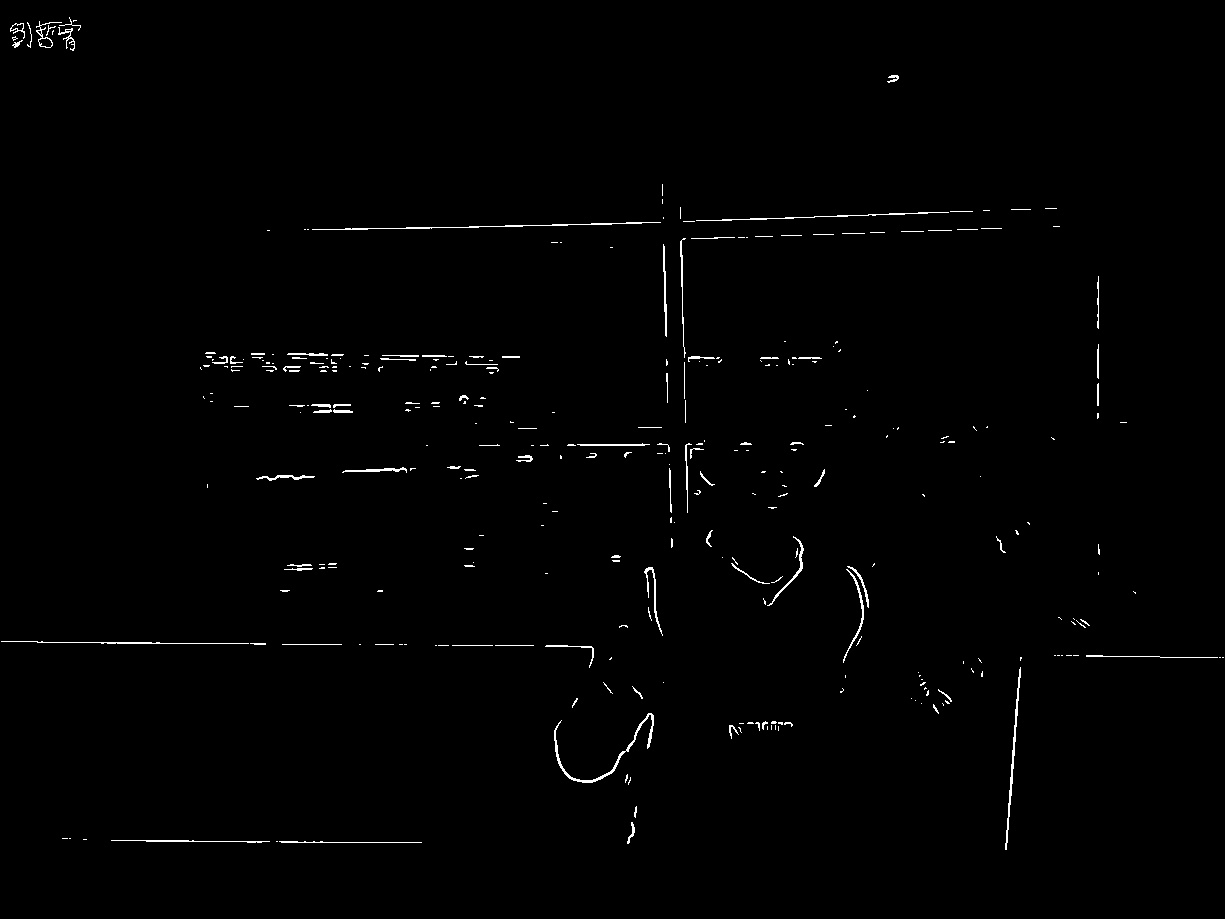
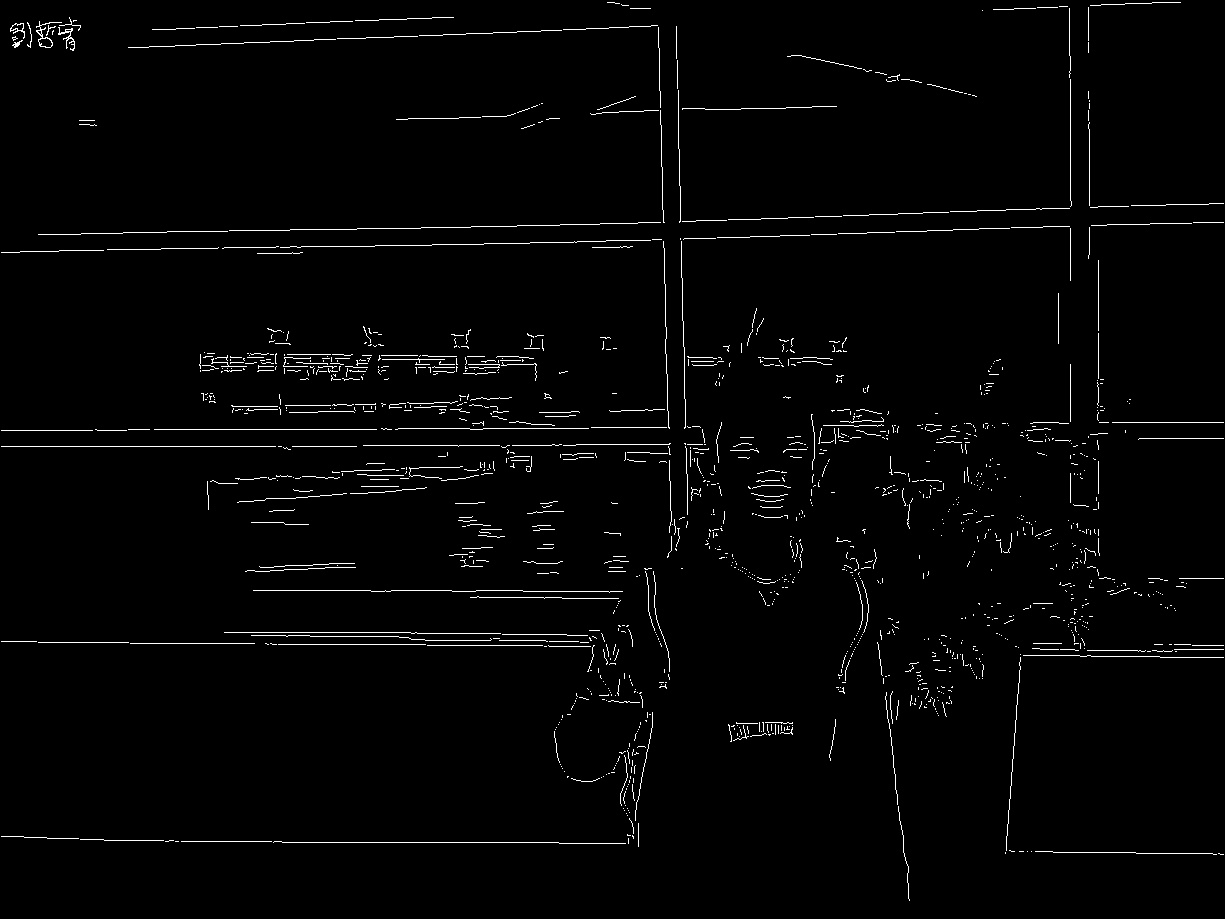
update

diff --git a/Canny.py b/Canny.py
@@ -16,14 +16,16 @@ def filter2D(image, kernel):
     return result
 
 
-def nms(dst):
+def nms(dst, angle):
     height, width = dst.shape[:2]
     result = np.zeros((height, width), dtype=np.int32)
-    angle = dst * 180. / np.pi
+    # angle = dst * 180. / np.pi
     for i in range(1, height - 1):
         for j in range(1, width - 1):
             v1 = 255
             v2 = 255
+            if angle[i, j] > 180:
+                angle[i, j] = angle[i, j] - 180
             if 67.5 > angle[i, j] >= 22.5:
                 # slash
                 v1 = dst[i + 1, j - 1]
@@ -133,7 +135,7 @@ class Canny(object):
         gradientMagnitude, gradientAngle = cv.cartToPolar(gradientX, gradientY, angleInDegrees=True)
 
         # cv.imshow("Gradient",gradientMagnitude.astype(np.uint8))
-        result = labelComponent(nms(gradientMagnitude), self.lowThreshold, self.highThreshold).astype(np.uint8)
+        result = labelComponent(nms(gradientMagnitude, gradientAngle), self.lowThreshold, self.highThreshold).astype(np.uint8)
 
         result = putSign(result)
 

diff --git a/main.py b/main.py
@@ -5,27 +5,27 @@ from matplotlib import pyplot as plt
 import Canny
 import HoughLines
 
-img = cv2.imread('street2.jpg', cv2.IMREAD_GRAYSCALE)
+img = cv2.imread('me.jpg', cv2.IMREAD_GRAYSCALE)
 # cv2.imshow('img', img)
 # canny edge detection
 canny = Canny.Canny()
 edges = canny.Canny(img)
 
 cv2.imshow('Canny', edges)
-cv2.imwrite('str2canny.jpg', edges)
+cv2.imwrite('mecanny.jpg', edges)
 cv2.waitKey(0)
 cv2.destroyAllWindows()
 
 # hough transform
-hough = HoughLines.HoughLines()
-vote = hough.vote(edges)
-
-fig = plt.figure(figsize=(10, 10))
-plt.imshow(vote, cmap='inferno')
-plt.ylabel('theta')
-plt.xlabel('rho')
-plt.margins(x=0.1)
-# plt.show()
-plt.savefig('str2vote.jpg')
+# hough = HoughLines.HoughLines()
+# vote = hough.vote(edges)
+#
+# fig = plt.figure(figsize=(10, 10))
+# plt.imshow(vote, cmap='inferno')
+# plt.ylabel('theta')
+# plt.xlabel('rho')
+# plt.margins(x=0.1)
+# # plt.show()
+# plt.savefig('str2vote.jpg')
 
 
